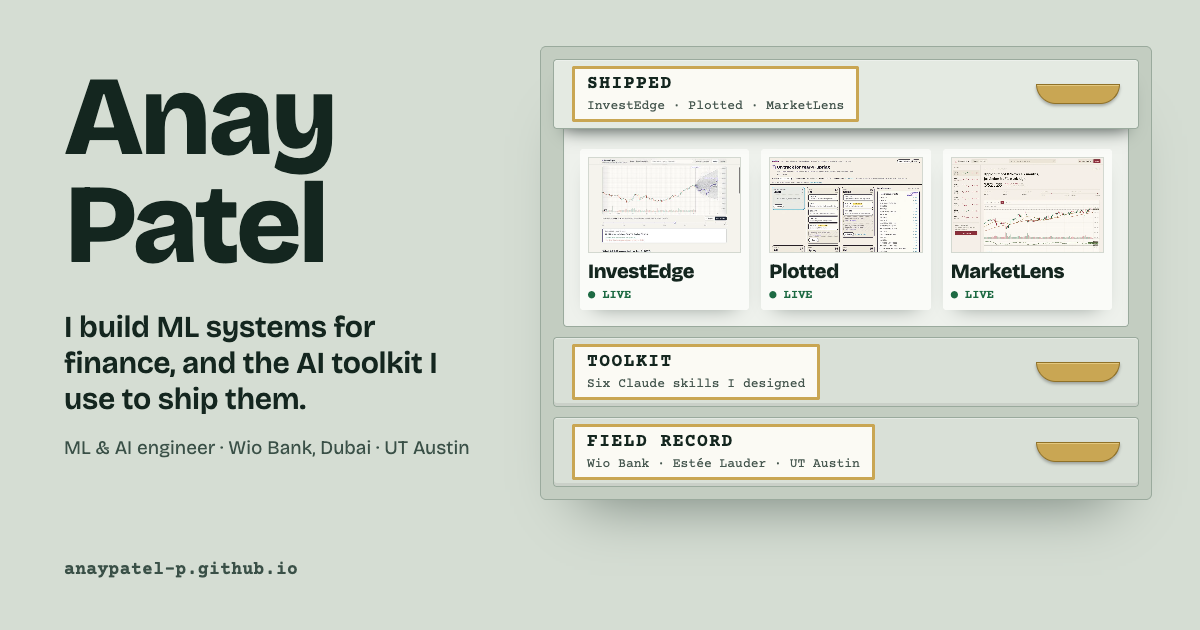
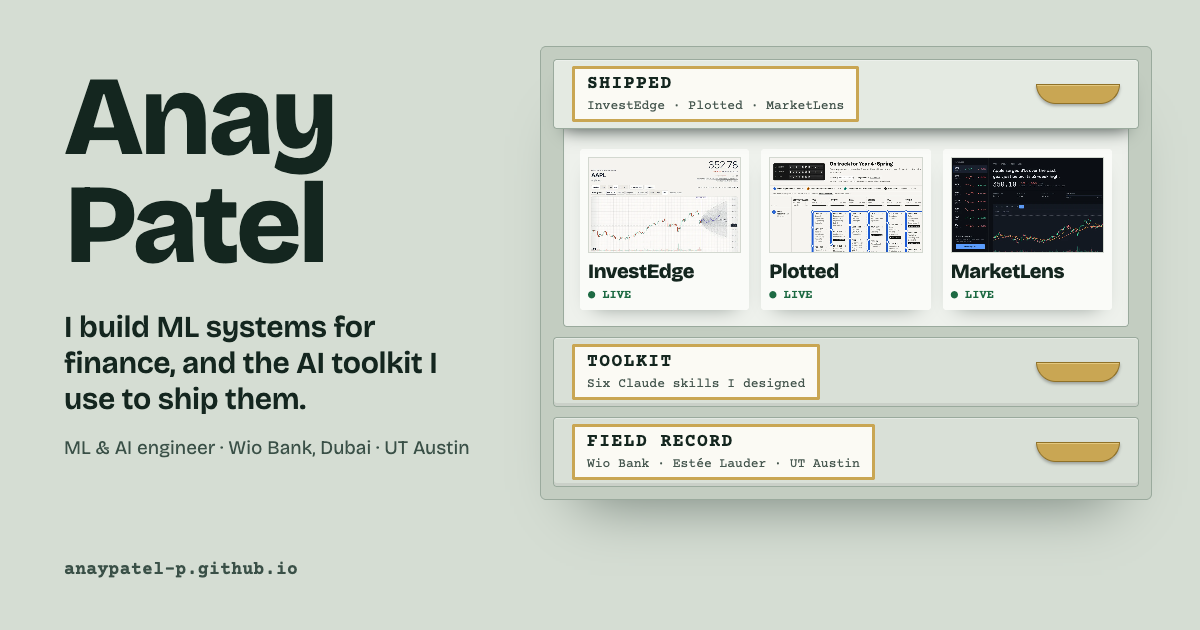
Update project thumbnails to match the redesigned apps
Recapture InvestEdge (rewound to Aug 4, 2026), Plotted (TAMU Data
Engineering route map) and MarketLens (Sharp lens) from the live apps
as 1000x625 WebP under new filenames, with alt text describing what is
on screen. Re-render the link-preview image and update provenance.

diff --git a/index.html b/index.html
@@ -81,7 +81,7 @@
           <div class="shelf">
           <article class="specimen" id="p-investedge" data-skills="project-manager original-ui">
             <figure class="plate">
-              <img src="assets/rewind-and-release.jpg" width="800" height="500" alt="InvestEdge chart turned back to June 3, 2026: a pencilled fan of ARIMA futures with the real price inked through it in violet, and a card noting reality landed inside the 95% range but no closer than the naive guess" decoding="async" fetchpriority="high">
+              <img src="assets/investedge-rewind.webp" width="1000" height="625" alt="InvestEdge stock page for Apple, the chart dragged back to August 4, 2026: a pencilled fan of ARIMA futures with what really happened inked through it in violet, beside the naive guess" decoding="async" fetchpriority="high">
             </figure>
             <div class="spec-body">
               <h3>InvestEdge</h3>
@@ -104,7 +104,7 @@
 
           <article class="specimen" id="p-plotted" data-skills="project-manager original-ui">
             <figure class="plate">
-              <img src="assets/plotted-planner.webp" width="1000" height="625" alt="Plotted planner for Texas A&amp;M Data Engineering, headed &quot;On track for Year 4 · Spring&quot;, with semester columns of course stickers, two courses flagged No slack, and a requirements checklist marked Met" loading="lazy" decoding="async">
+              <img src="assets/plotted-route-map.webp" width="1000" height="625" alt="Plotted planner for Texas A&amp;M Data Engineering drawn as a route map: a split-flap board reading Year 4 Spring, 128 of 128 hours, planned; the headline &quot;On track for Year 4 · Spring&quot;; and semester columns where the major-requirements line runs through each course, several flagged No slack" loading="lazy" decoding="async">
             </figure>
             <div class="spec-body">
               <h3>Plotted</h3>
@@ -127,7 +127,7 @@
 
           <article class="specimen" id="p-marketlens" data-skills="project-manager original-ui">
             <figure class="plate">
-              <img src="assets/marketlens-analysis.webp" width="1000" height="625" alt="MarketLens analysis view in the Editorial lens: a headline reading &quot;Apple climbed 19% over six months, just below its 52-week high&quot;, a live price, key stats, and a six-month candlestick chart with moving averages, volume and RSI" loading="lazy" decoding="async">
+              <img src="assets/marketlens-sharp.webp" width="1000" height="625" alt="MarketLens in the dark Sharp lens: a watchlist of eight tickers with sparklines beside Apple, headlined &quot;Apple surged 31% over the past year, just below its 52-week high&quot;, with price, key stats and a one-year candlestick chart with moving averages, volume and RSI" loading="lazy" decoding="async">
             </figure>
             <div class="spec-body">
               <h3>MarketLens</h3>

diff --git a/docs/og-card.html b/docs/og-card.html
@@ -49,9 +49,9 @@
   <div class="cab">
     <div class="front"><span class="holder"><b>Shipped</b><span>InvestEdge · Plotted · MarketLens</span></span><span class="pull"></span></div>
     <div class="tray">
-      <div class="spec"><img src="../assets/rewind-and-release.jpg" alt=""><b>InvestEdge</b><span>● LIVE</span></div>
-      <div class="spec"><img src="../assets/plotted-planner.webp" alt=""><b>Plotted</b><span>● LIVE</span></div>
-      <div class="spec"><img src="../assets/marketlens-analysis.webp" alt=""><b>MarketLens</b><span>● LIVE</span></div>
+      <div class="spec"><img src="../assets/investedge-rewind.webp" alt=""><b>InvestEdge</b><span>● LIVE</span></div>
+      <div class="spec"><img src="../assets/plotted-route-map.webp" alt=""><b>Plotted</b><span>● LIVE</span></div>
+      <div class="spec"><img src="../assets/marketlens-sharp.webp" alt=""><b>MarketLens</b><span>● LIVE</span></div>
     </div>
     <div class="front closed"><span class="holder"><b>Toolkit</b><span>Six Claude skills I designed</span></span><span class="pull"></span></div>
     <div class="front closed"><span class="holder"><b>Field record</b><span>Wio Bank · Estée Lauder · UT Austin</span></span><span class="pull"></span></div>

diff --git a/PRODUCT.md b/PRODUCT.md
@@ -37,9 +37,9 @@ None binding. The previous visual identity ("lab notebook": cream paper, Newsrea
 ## Evidence on Hand
 
 - **Projects (all live):**
-  - InvestEdge: ARIMA, ETS, Prophet and GARCH forecasts on every S&P 500 stock, replayed against reality. Live at anaypatel-p.github.io/investedge/. Screenshot `assets/rewind-and-release.jpg`.
-  - Plotted: semester-by-semester degree planner on real catalogs. Live at plotted-cyan.vercel.app. Screenshot `assets/plotted-planner.webp`.
-  - MarketLens: stock dashboard with live watchlist, charts and portfolio P&L vs the S&P 500. Live at marketlens-live.fly.dev. Screenshot `assets/marketlens-analysis.webp`.
+  - InvestEdge: ARIMA, ETS, Prophet and GARCH forecasts on every S&P 500 stock, replayed against reality. Live at anaypatel-p.github.io/investedge/. Screenshot `assets/investedge-rewind.webp`.
+  - Plotted: semester-by-semester degree planner on real catalogs. Live at plotted-cyan.vercel.app. Screenshot `assets/plotted-route-map.webp`.
+  - MarketLens: stock dashboard with live watchlist, charts and portfolio P&L vs the S&P 500. Live at marketlens-live.fly.dev. Screenshot `assets/marketlens-sharp.webp`.
 - **Skills (six):** lightbulb, project-manager, original-ui, agent-builder, teach, ai-brief, each with an excerpt in `index.html`. Projects were planned with project-manager and designed with original-ui.
 - **Experience:** Wio Bank, Data Science Associate (2024 to now) and ML Intern; The Estée Lauder Companies, CEO Presidential Associate Intern, Data Science. Education: UT Austin MS Business Analytics & AI (May 2028), BS Mathematics (May 2026).
 - **Resume:** `resume.pdf`. Contact: email, GitHub, LinkedIn.
